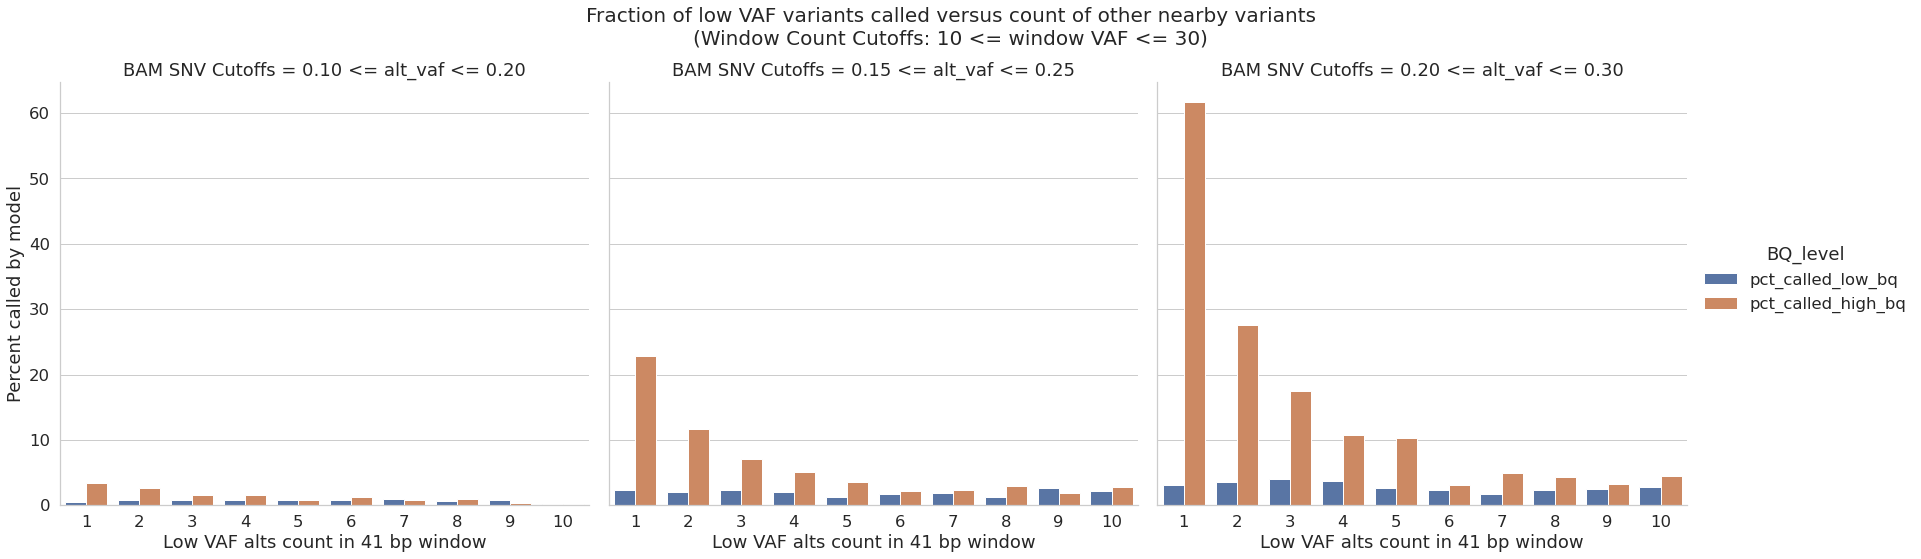
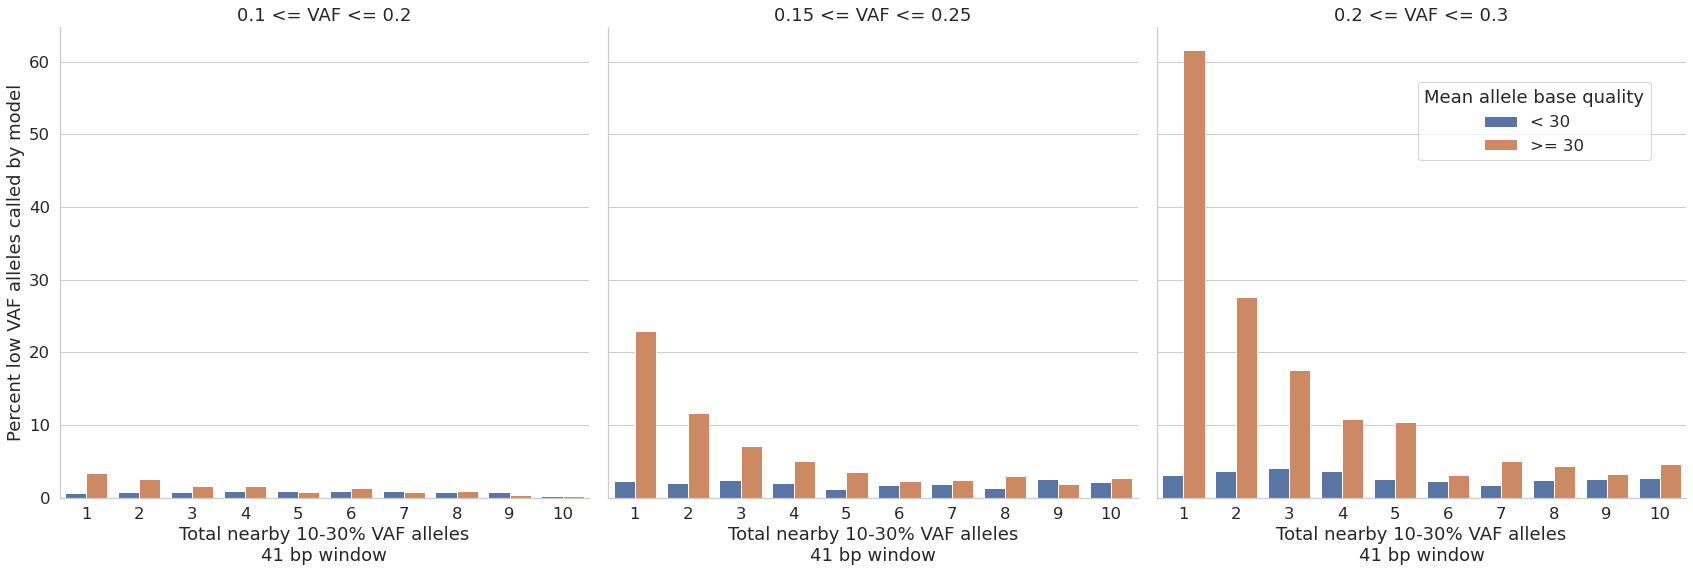
clearify and tidy up variant context text and figure

diff --git a/manuscript/manuscript.tex b/manuscript/manuscript.tex
@@ -136,9 +136,9 @@ Our model was able to reconstruct the correct haplotypes for ~90.8\% (mid 50\% 8
  - Also ambiguous, but anecdotally when looking at variant calls, it seems apparent that variants that otherwise look real have lower quality scores when there's a lot of junk around. That's good, since such variants are more likely To
  be false positives, and that means the model is to some extent looking at local context to modify prediction accuracy. Which is cool.
 
-Model input, derived from aligned reads, includes information about nearby non-reference bases and other context information such as base qualities. We were interested to see how model variant calling was informed by or correlated to aligned read information near a prospective variant. Prospective SNVs with a VAF much lower than the roughly 50\% expected for a nominal heterozygous variant are less likely to be true variants and are less likely to be called than those with higher VAF. This model decision process may involve the use of local context information. For example, the model may detect many low VAF prospective variants in a local region. In many cases this can be related to a difficult to sequence region that presents numerous false positive prospective variants. Through training, the model may learn to reduce variant call probability in such regions. Base quality scores, a local context parameter that can also indicate incorrect non-reference base calls, may also play an important roll in informing the model that a prospective variant call is incorrect.
+Model input, derived from aligned reads, includes information about nearby non-reference bases and other context information such as base qualities. We were interested to see how model variant calling was informed by or correlated to aligned read information near a prospective variant. Prospective SNVs with a variant allele fraction (VAF) much lower than the roughly 50\% expected for a nominal heterozygous variant are less likely to be true variants and are less likely to be called than those with higher VAF. This model decision process may involve the use of local context information. For example, the model may detect many low VAF prospective variants in a local region. In many cases this can be related to a difficult to sequence region that presents numerous false positive prospective variants. Through training, the model may learn to reduce variant call probability in such regions. Base quality scores (BQ), a local context parameter that can also indicate incorrect non-reference base calls, may also play an important roll in informing the model that a prospective variant call is incorrect.
 
-To explore the transformer models use of these local context data for prospective low VAF variants, we evaluated low VAF variant call probability relative to the total number of nearby low VAF prospective variants. Low versus High base quality was included to determine if it was also correlated to call probability and possibly used in the model decision process. Figure XXX shows three different low VAF ranges for prospective variants and what fraction of these variants were called by the model compared to the number of other nearby low VAF variants and also compared to base quality score. The results show a strong trend between low local prospective variant population and higher probability of being called by the model. Base quality scores, on the other hand, were not strongly linked to call probability or to the local population of prospective variants. This indicates that to some extent the model uses local non-reference base information to determine variant calls.
+To explore the transformer model's use of these local context data for prospective low VAF variants, we evaluated low VAF variant call probability relative to the total number of nearby low VAF prospective variants within a centered 41 base window. The data set included the approximately 96,000 low VAF (0.1 <= VAF <= 0.3) prospective variants from one sample on chromosome 21. Low BQ (< 30) versus high BQ (>=30) was included to determine if it was also correlated to call probability and possibly used in the model decision process. Figure XXX shows three different low VAF ranges for prospective variants and the fraction of these variants called by the model compared to the number of other nearby low VAF variants and also compared to base quality score. The results show a strong trend between low local prospective variant population and higher probability of being called by the model. Base quality scores, on the other hand, were not strongly linked to call probability or to the local population of prospective variants. This indicates that to some extent the model uses local non-reference base information to determine variant calls.
 
 \subsection{Ablation of 2D positional encoding}
 
